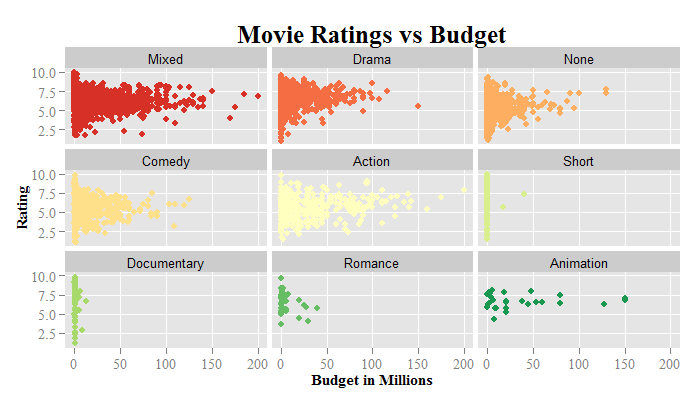
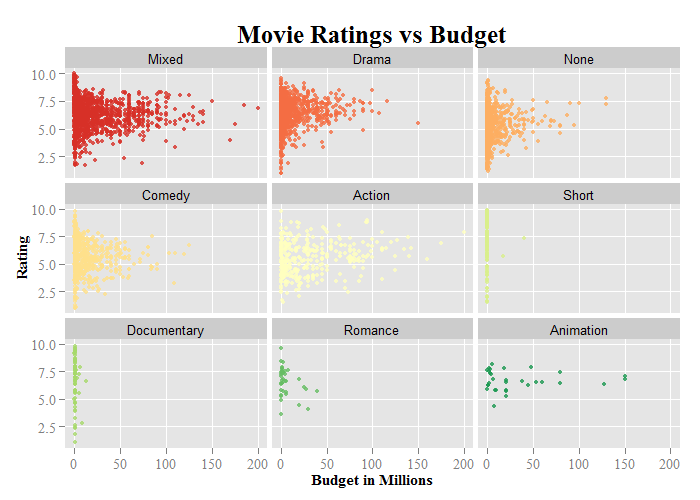
homework1

diff --git a/homework1/README.md b/homework1/README.md
@@ -53,7 +53,7 @@ The color rank column was used as colors in the images, and `scale_colour_brewer
 
 ![IMAGE](hw1-scatter.png)
 
-For the scatter above, I devided the values of x-axis labels by 1,000,000, and added "in Millions" to the x-axis title. I also changed the labels and name of the legend to make it more readable.
+For the scatter above, I devided the values of x-axis labels by 1,000,000, and added "in Millions" to the x-axis title. I changed the labels and name of the legend to make it more readable. I also changed the transparency and size of the points.
 
 ![IMAGE](hw1-bar.png)
 
